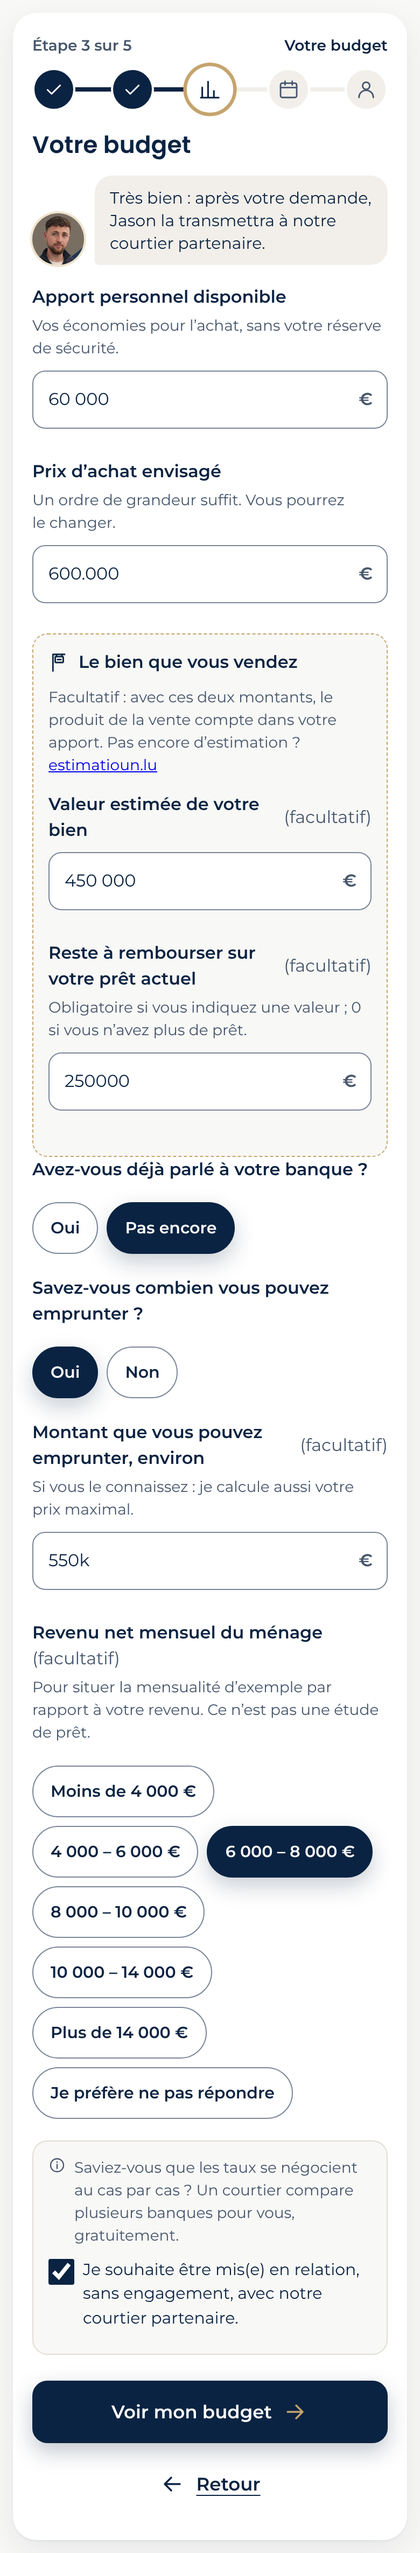
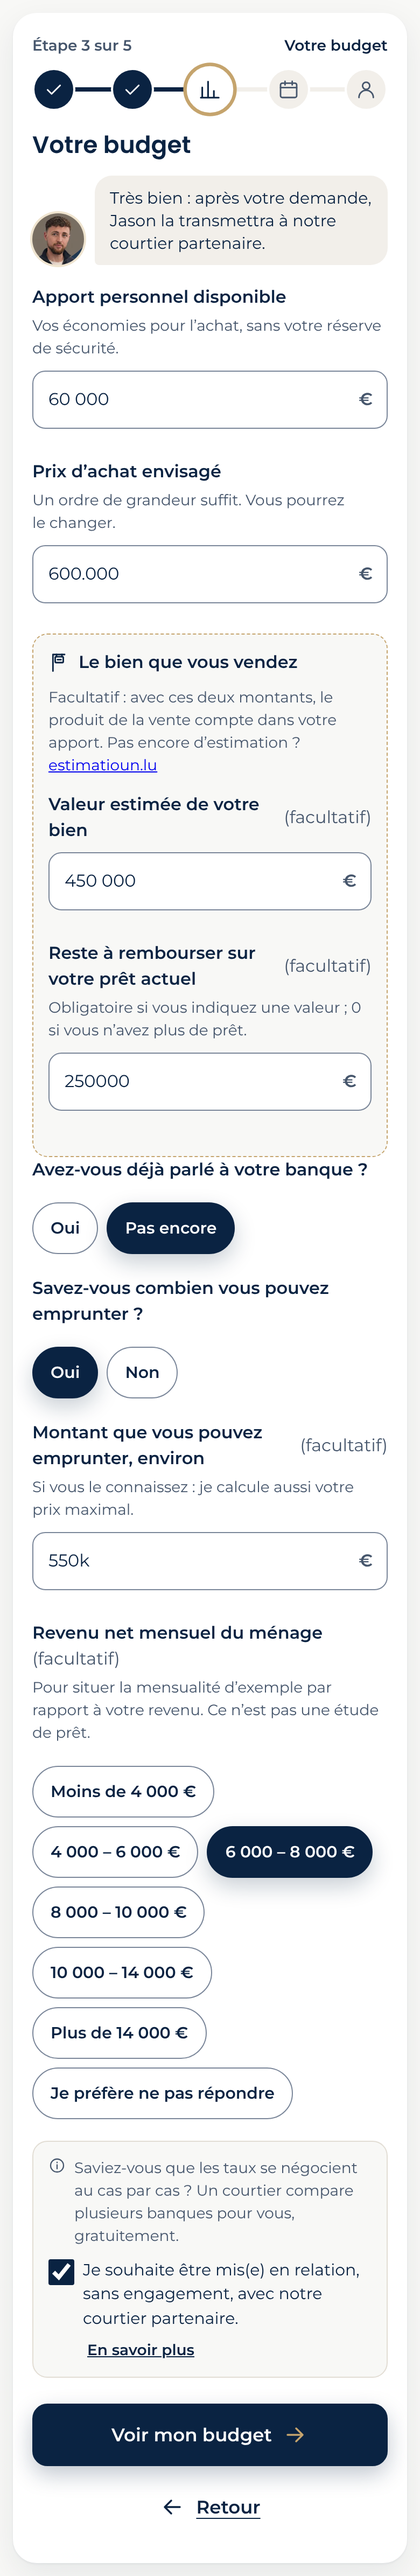
Outil acheteur : lien « En savoir plus » à côté de la case courtier
Claude-Session: https://claude.ai/code/session_01846hvtDCGosG1joqDaaTFb

diff --git a/acheteur-widget/src/ui/steps.ts b/acheteur-widget/src/ui/steps.ts
@@ -35,6 +35,8 @@ export interface Ctx {
   quickCommunes: string[];
   /** nom du courtier montré à côté de la case ; vide = pas de nom */
   courtierNomPublic: string;
+  /** lien « en savoir plus » à côté de la case courtier (section courtier de la politique de confidentialité) */
+  courtierInfoUrl?: string;
 }
 
 export const STEP_ICONS = ['cle', 'epingle', 'donnees', 'calendrier', 'personne'];
@@ -258,6 +260,9 @@ function step3(ctx: Ctx): string {
   const who = ctx.courtierNomPublic
     ? `<details class="who"><summary>${esc(t('fields.courtierWho'))}</summary><p class="small">${esc(t('fields.courtierName', { nom: ctx.courtierNomPublic }))}</p></details>`
     : '';
+  const info = ctx.courtierInfoUrl
+    ? `<p class="small courtier-info"><a href="${esc(ctx.courtierInfoUrl)}" target="_blank" rel="noopener" aria-label="${esc(t('fields.courtierInfoLabel'))}">${esc(t('fields.courtierInfo'))}</a></p>`
+    : '';
   return `${money(ctx, 'apport', t('fields.apport'), t('fields.apportHelp'))}
 ${money(ctx, 'prix', t('fields.prix'), t('fields.prixHelp'))}
 <div class="vente-box" id="vente-box"${String(v.vendre ?? '').startsWith('oui') ? '' : ' hidden'}>
@@ -272,7 +277,7 @@ ${choices(ctx, 'capacite', t('fields.capacite'), opts(t, 'fields.capaciteOptions
 ${choices(ctx, 'revenu', t('fields.revenu'), opts(t, 'fields.revenuOptions', REVENUS), 'chips', { help: t('fields.revenuHelp'), optional: true })}
 <div class="courtier-box">
   <p class="small">${icon('info', 'ico ico-xs')} ${esc(t('fields.courtierHint'))}</p>
-  ${checkbox(ctx, 'courtier', t('fields.courtier'), who)}
+  ${checkbox(ctx, 'courtier', t('fields.courtier'), who + info)}
 </div>`;
 }
 

diff --git a/acheteur-widget/tests/result-view.test.ts b/acheteur-widget/tests/result-view.test.ts
@@ -83,6 +83,12 @@ describe('Case courtier', () => {
     expect(html).not.toContain('atHome');
     expect(html).not.toMatch(/name="courtier"[^>]*checked/);
   });
+  it('Lien « En savoir plus » vers la section courtier de la politique de confidentialité, sans nommer le courtier', () => {
+    const html = renderStep(3, { ...ctx(false), courtierInfoUrl: 'https://immobuild.lu/politique-de-confidentialite-cookies/#courtier-partenaire' });
+    expect(html).toContain('href="https://immobuild.lu/politique-de-confidentialite-cookies/#courtier-partenaire"');
+    expect(strip(html)).toContain('En savoir plus');
+    expect(html).not.toContain('atHome');
+  });
   it('Avec courtierNomPublic : le nom apparaît dans « Qui est notre courtier partenaire ? »', () => {
     expect(renderStep(3, ctx(true))).toContain('atHome Finance');
   });

diff --git a/acheteur-widget/src/styles.css b/acheteur-widget/src/styles.css
@@ -652,6 +652,8 @@ html.is-embedded #app { padding: 4px 2px 24px; }
 .courtier-box > .small:first-child { display: flex; gap: 8px; align-items: flex-start; margin: 0 0 10px; }
 .courtier-box .field { margin: 0; }
 .who { margin: 8px 0 0 36px; font-size: 0.875rem; }
+.courtier-info { margin: 6px 0 0 36px !important; }
+.courtier-info a { color: var(--navy); font-weight: 600; }
 .who summary { cursor: pointer; color: var(--navy); font-weight: 600; }
 
 .budget-table { width: 100%; border-collapse: collapse; margin-top: 12px; font-size: 0.9375rem; }

diff --git a/acheteur-widget/src/main.ts b/acheteur-widget/src/main.ts
@@ -71,6 +71,7 @@ function ctx(): Ctx {
     estimationUrl: config.estimationUrl[lang],
     quickCommunes: config.quickCommunes,
     courtierNomPublic: config.courtierNomPublic,
+    courtierInfoUrl: config.courtierInfoUrl?.[lang],
   };
 }
 

diff --git a/acheteur-widget/docs/texte-politique-confidentialite.md b/acheteur-widget/docs/texte-politique-confidentialite.md
@@ -3,6 +3,7 @@
 Deux textes prêts à coller. Ils décrivent ce que fait réellement l’outil (vérifié dans le code le 19/11/2026). **Ce n’est pas un avis juridique** : fais-les relire si tu as un doute. Les passages entre crochets sont **à compléter par Jason** avant publication.
 
 - **Partie A** : nouvelle section de la politique de confidentialité (https://immobuild.lu/politique-de-confidentialite-cookies/). C’est la page vers laquelle renvoie la case à cocher de l’outil.
+  - **Important :** le lien « En savoir plus » à côté de la case courtier pointe vers `…/politique-de-confidentialite-cookies/#courtier-partenaire`. Dans Elementor, donne au titre « Mise en relation avec notre courtier partenaire » l’**ID CSS `courtier-partenaire`** (onglet Avancé → ID CSS). Sans cet ID, le lien ouvre quand même la page, mais en haut.
 - **Partie B** : conditions d’utilisation de l’outil, avec la mention de ta rémunération par le courtier (ta décision du 19/11/2026 : dans les textes juridiques seulement). À mettre sur la page des mentions légales ou sur une page « Conditions d’utilisation des outils en ligne », et à relier depuis la politique de confidentialité.
 
 ---
@@ -35,7 +36,7 @@ Nous ne demandons ni pièce d’identité, ni coordonnées bancaires, ni employe
 
 Base légale pour 1 à 5 : votre consentement, donné en cochant les cases prévues (article 6, paragraphe 1, point a du RGPD), une case distincte pour le courtier et pour les alertes. Vous pouvez retirer chaque consentement à tout moment, sans effet sur ce qui a été fait avant. La limitation des abus (voir plus bas) repose sur notre intérêt légitime à protéger l’outil (article 6, paragraphe 1, point f).
 
-**Mise en relation avec notre courtier partenaire.** Notre courtier partenaire est **atHome Finance** [adresse et forme juridique exactes à compléter, d’après le contrat]. Il ne reçoit vos données que si vous avez coché la case « Je souhaite être mis(e) en relation, sans engagement, avec notre courtier partenaire ». Dans ce cas, ImmoBuild Kohn lui transmet vos coordonnées et les éléments de votre projet utiles au financement (projet, budget, calendrier). atHome Finance traite ensuite ces données sous sa propre responsabilité, selon sa propre politique de confidentialité. ImmoBuild Kohn peut être rémunéré par ce courtier pour la mise en relation (voir les conditions d’utilisation de l’outil).
+**Mise en relation avec notre courtier partenaire** *(titre avec l’ID CSS `courtier-partenaire`)*. Notre courtier partenaire est **atHome Finance** [adresse et forme juridique exactes à compléter, d’après le contrat]. Il ne reçoit vos données que si vous avez coché la case « Je souhaite être mis(e) en relation, sans engagement, avec notre courtier partenaire ». Dans ce cas, ImmoBuild Kohn lui transmet vos coordonnées et les éléments de votre projet utiles au financement (projet, budget, calendrier). atHome Finance traite ensuite ces données sous sa propre responsabilité, selon sa propre politique de confidentialité. ImmoBuild Kohn peut être rémunéré par ce courtier pour la mise en relation (voir les conditions d’utilisation de l’outil).
 
 **Destinataires et prestataires.**
 - **Cloudflare, Inc.** héberge l’outil et effectue le calcul. Vos réponses sont traitées en mémoire puis oubliées ; elles ne sont pas enregistrées dans une base de données.
